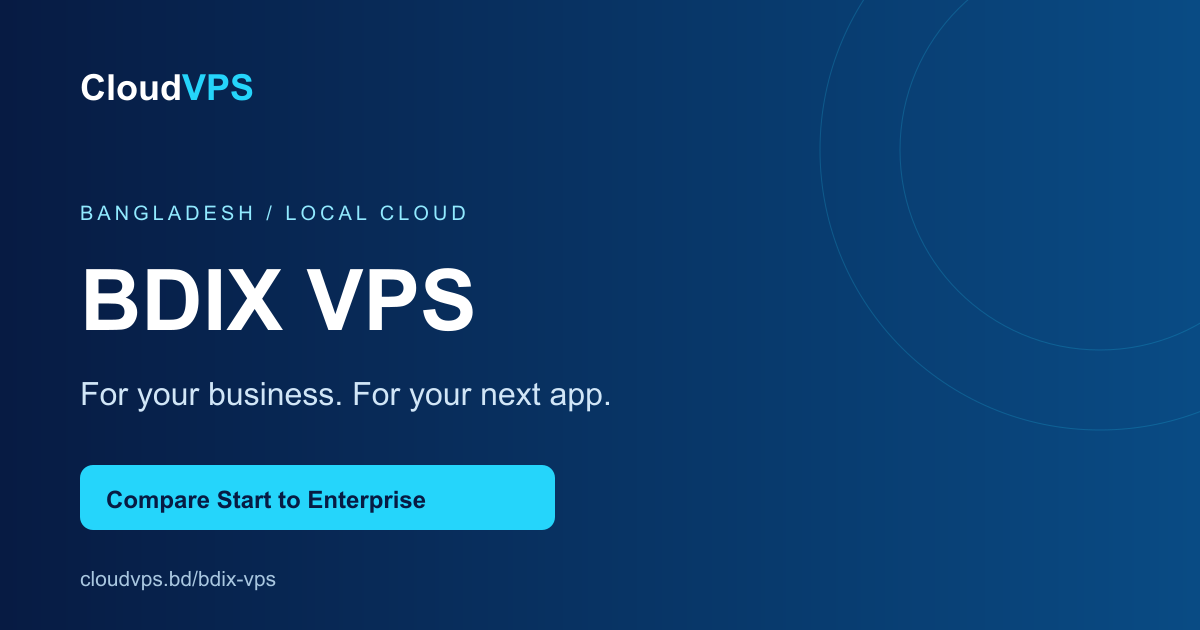
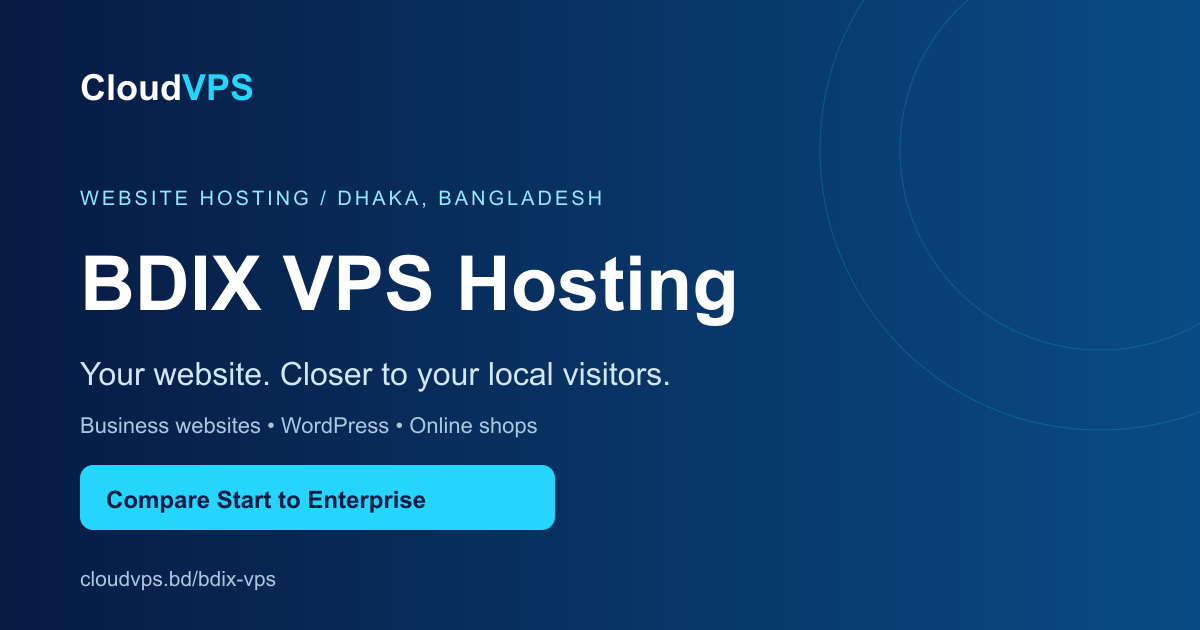
content: focus BDIX landing on local website hosting

Changed region(s): [[0.0617, 0.3921, 0.6167, 0.5429], [0.0617, 0.573, 0.555, 0.6937], [0.0617, 0.3016, 0.4933, 0.3619]]

diff --git a/components/bdix-page.tsx b/components/bdix-page.tsx
@@ -11,11 +11,11 @@ const subscribe = () => () => {};
 const getSearch = () => window.location.search;
 const getServerSearch = () => "";
 const useCases: Record<number, { label: string; text: string; icon: typeof Terminal }> = {
-  1: { label: "Start small. Build your idea.", text: "ছোট website, lightweight app ও development environment-এর জন্য শুরু করুন।", icon: Terminal },
-  2: { label: "More room to grow.", text: "কয়েকটি ছোট website, staging environment বা ছোট business app-এর জন্য।", icon: Layers },
-  3: { label: "Your next production app.", text: "Growing e-commerce, API ও production app-এর জন্য balanced resources।", icon: Zap },
-  4: { label: "Built around your business.", text: "ERP/CRM, একাধিক app ও বেশি resources প্রয়োজন এমন business workload-এর জন্য।", icon: Database },
-  5: { label: "Think bigger. Deploy more.", text: "বড় deployment, একাধিক service ও resource-heavy workload-এর জন্য।", icon: Server },
+  1: { label: "ছোট website দিয়ে শুরু", text: "Business পরিচিতি, portfolio বা ছোট WordPress website host করার জন্য প্রথমে এই resources তুলনা করুন।", icon: Globe2 },
+  2: { label: "WordPress-এর জন্য বাড়তি RAM", text: "Content-rich WordPress site বা কয়েকটি ছোট website-এর জন্য বেশি RAM ও storage বেছে নিন।", icon: Layers },
+  3: { label: "আপনার online shop-এর জন্য", text: "WooCommerce বা e-commerce website-এর catalog, database ও checkout-এর প্রয়োজন অনুযায়ী plan তুলনা করুন।", icon: Zap },
+  4: { label: "একাধিক business website", text: "Agency বা একাধিক business website একই server-এ host করতে বেশি CPU, RAM ও storage বিবেচনা করুন।", icon: Database },
+  5: { label: "বড় website, বড় resources", text: "বড় content portal, একাধিক store বা resource-intensive website-এর জন্য এই package দিয়ে sizing শুরু করুন।", icon: Server },
 };
 
 export function campaignUrl(href: string, search: string) {
@@ -29,10 +29,12 @@ export function campaignUrl(href: string, search: string) {
 }
 
 const faqs = [
-  ["আমার জন্য কোন plan ভালো?", "ছোট project-এর জন্য Start/Plus দিয়ে তুলনা শুরু করুন। Production app-এর জন্য Pro, আর বেশি memory/CPU প্রয়োজন হলে Business বা Enterprise দেখুন। App stack, database ও workload অনুযায়ী প্রয়োজন বদলায়—সন্দেহ হলে support-এর সঙ্গে কথা বলুন।"],
-  ["BDIX VPS মানে কি সব ISP-তে একই speed?", "না। Bangladesh location local audience-এর জন্য একটি বিকল্প। Actual connectivity ও latency আপনার ISP, peering/routing এবং workload-এর ওপর নির্ভর করে। নির্দিষ্ট latency বা speed guarantee করা হচ্ছে না।"],
+  ["বাংলাদেশি visitor-এর জন্য BDIX VPS কেন বেছে নেব?", "BDIX স্থানীয় network-গুলোর মধ্যে internet traffic exchange করতে সাহায্য করে। আপনার visitor-এর ISP থেকে server পর্যন্ত local routing থাকলে দূরের international route এড়িয়ে network latency কমতে পারে। বাংলাদেশকেন্দ্রিক website-এর জন্য তাই local hosting বিবেচনা করা যায়।"],
+  ["আমার website-এর জন্য কোন plan ভালো?", "ছোট business website-এর জন্য Start, বেশি RAM দরকার হলে Plus, আর online shop-এর জন্য Pro দিয়ে তুলনা শুরু করুন। একাধিক বা বড় website-এর জন্য Business/Enterprise দেখুন। Plugins, database, caching ও একই সময়ে কত request আসে—এসব অনুযায়ী প্রয়োজন বদলায়।"],
+  ["WordPress বা WooCommerce website host করতে পারব?", "উপযুক্ত OS, web server, PHP ও database configure করে WordPress বা WooCommerce host করা যায়। VPS নেওয়া মানেই pre-installed WordPress বা managed hosting নয়। Setup বা migration-এ সাহায্য প্রয়োজন হলে আগে support-এর সঙ্গে scope ও খরচ নিশ্চিত করুন।"],
+  ["সব ISP ও mobile network-এ কি একই latency পাব?", "না। ISP-এর peering, mobile network, routing ও congestion অনুযায়ী latency বদলায়। Website-এর code, images, plugins, database ও caching-ও load time-এ প্রভাব ফেলে। Local hosting network delay কমাতে সাহায্য করতে পারে; নির্দিষ্ট ping বা page-load time নিশ্চিত করে না।"],
   ["Operating system কীভাবে বেছে নেব?", "এই Plan নিন button থেকে client portal-এর configuration page খুলবে। সেখানে ওই package-এর available operating system ও options দেখে নির্বাচন করুন।"],
-  ["Server management ও support কি included?", "Included management-এর scope order করার আগে support-এর সঙ্গে নিশ্চিত করুন। এই page managed service-এর প্রতিশ্রুতি দিচ্ছে না। Account ও service support client portal-এ পাওয়া যাবে।"],
+  ["cPanel, website migration বা server management কি included?", "Control panel license, migration ও server management-এর availability এবং আলাদা খরচ order করার আগে support-এর সঙ্গে নিশ্চিত করুন। Website setup ও maintenance-এর দায়িত্বও আগে ঠিক করে নিন। Account ও service support client portal থেকে নিন।"],
   ["Bandwidth ও IPv4 কত পাব?", "প্রতিটি package card-এ catalog-এর bandwidth allocation ও included IPv4 দেখানো আছে। এগুলো connection speed নয়। Usage policy ও extra IPv4-এর খরচ portal/support থেকে নিশ্চিত করুন।"],
   ["দাম ও billing কীভাবে কাজ করে?", "এখানে মাসিক customer price দেখানো হয়। Billing cycle, tax, add-ons ও final payable total client portal-এর checkout-এ review করুন। অন্য billing cycle-এর জন্য portal-এর price-ই অনুসরণ করুন।"],
   ["Backup বা DDoS protection included আছে?", "এই page এগুলো included হিসেবে দেখাচ্ছে না। আপনার প্রয়োজন থাকলে purchase-এর আগে support-এর সঙ্গে availability ও terms নিশ্চিত করুন।"],
@@ -44,28 +46,33 @@ export function BdixPage({ plans }: { plans: BdixPlan[] }) {
   const starting = available.length ? Math.min(...available.map(p => p.price)) : null;
   return <Shell current="/bdix-vps"><article className="bdix-page" lang="bn">
     <section className="bdix-hero"><div className="container bdix-hero-grid"><div>
-      <span className="bdix-eyebrow"><span className="pulse"/> BANGLADESH / BDIX CLOUD VPS</span>
-      <h1>আপনার <span lang="en">Business ও Apps</span>-এর জন্য <em>Bangladesh BDIX VPS</em></h1>
-      <p>Website, business software কিংবা development project—আপনার workload অনুযায়ী resources বেছে নিন।</p>
+      <span className="bdix-eyebrow"><span className="pulse"/> WEBSITE HOSTING / DHAKA, BANGLADESH</span>
+      <h1>বাংলাদেশি visitor-এর জন্য <em lang="en">BDIX VPS Hosting</em></h1>
+      <p>আপনার business website, WordPress কিংবা online shop host করুন বাংলাদেশে। Local routing-এর সুবিধায় network latency কমানোর সুযোগ, সঙ্গে website-এর প্রয়োজন অনুযায়ী CPU, RAM ও NVMe storage।</p>
+      <ul className="bdix-hero-points"><li><Check/> Dhaka server location</li><li><Check/> Website অনুযায়ী VPS resources</li><li><Check/> মাসিক package, পরিষ্কার দাম</li></ul>
       <div className="bdix-hero-actions"><a className="button button-cyan" href="#packages">Packages দেখুন <ArrowRight size={18}/></a><a className="bdix-support-link" href="/contact">সঠিক plan বেছে নিতে সাহায্য নিন <ArrowUpRight size={16}/></a></div>
       <div className="bdix-starting">{starting !== null ? <>শুরু <strong>৳{money(starting)}</strong> / month <small>Final total checkout-এ review করুন</small></> : <>Latest packages ও দাম জানতে <a href={portal + "/vps"}>client portal দেখুন →</a></>}</div>
-    </div><div className="bdix-server-art" aria-label="Bangladesh cloud server resources"><div className="bdix-art-top"><span><MapPin size={17}/> Dhaka, Bangladesh</span><span className="bdix-art-chip">KVM CLOUD</span></div><div className="bdix-rack">{[1,2,3].map(n => <div key={n}><Server size={30}/><span/><i/><i/></div>)}</div><div className="bdix-art-bottom"><span><Cpu/> vCPU & RAM</span><span><Database/> NVMe storage</span><span><Globe2/> BDIX VPS</span></div><p>Local infrastructure.<br/><strong>Your next big idea.</strong></p></div></div></section>
+    </div><div className="bdix-server-art" aria-label="Website hosting on a server in Dhaka, Bangladesh"><div className="bdix-art-top"><span><MapPin size={17}/> Dhaka, Bangladesh</span><span className="bdix-art-chip">WEBSITE HOSTING</span></div><div className="bdix-rack">{[1,2,3].map(n => <div key={n}><Server size={30}/><span/><i/><i/></div>)}</div><div className="bdix-art-bottom"><span><Cpu/> vCPU & RAM</span><span><Database/> NVMe storage</span><span><Globe2/> BDIX VPS</span></div><p>Your website. Hosted locally.<br/><strong>Closer to your visitors.</strong></p></div></div></section>
     <div className="bdix-proof container"><span><MapPin/> Bangladesh location</span><span><Database/> NVMe packages</span><span><Settings2/> Configure in the portal</span></div>
-    <section className="bdix-section" id="packages"><div className="container"><div className="bdix-heading"><span className="section-kicker">01 / FIND YOUR FIT</span><h2>একটি idea থেকে বড় deployment.<br/><em>আপনার জন্য কোন plan?</em></h2><p>সব BDIX package এক জায়গায়। Resources ও monthly price তুলনা করে আপনার পরের ধাপ বেছে নিন।</p></div>
+    <section className="bdix-section" id="packages"><div className="container"><div className="bdix-heading"><span className="section-kicker">01 / WEBSITE HOSTING PLANS</span><h2>ছোট business site থেকে online shop.<br/><em>আপনার website-এর জন্য সঠিক VPS।</em></h2><p>সব BDIX package এক জায়গায়। Website-এর ধরন, database ও traffic অনুযায়ী resources তুলনা করুন।</p></div>
       {plans.length ? <div className="bdix-plans">{plans.map(p => <section id={`plan-${p.id}`} key={p.id} className={`bdix-plan ${p.featured ? "featured" : ""}`}>
         <div className="bdix-plan-heading"><Server size={24}/>{p.featured && <span className="bdix-badge">Featured plan</span>}</div><h3 lang="en">{p.name}</h3><p className="bdix-plan-tagline">{useCases[p.id]?.label ?? "Resources for your next project."}</p><div className="bdix-price">৳{money(p.price)}<small>/ month</small></div>
         <ul><li><Check/>{p.cpu} vCPU</li><li><Check/>{p.ram} GB RAM</li><li><Check/>{p.disk} GB NVMe storage</li><li><Check/>{money(p.bandwidth)} GB bandwidth</li><li><Check/>{p.ipv4} IPv4 address{p.ipv4 === 1 ? "" : "es"}</li></ul>
-        <div className="bdix-plan-use"><span>ভালো fit হতে পারে</span><p>{useCases[p.id]?.text ?? "আপনার application-এর resource requirements-এর সঙ্গে মিলিয়ে বেছে নিন।"}</p></div>
+        <div className="bdix-plan-use"><span>এই plan কার জন্য?</span><p>{useCases[p.id]?.text ?? "আপনার website-এর resource requirements-এর সঙ্গে মিলিয়ে বেছে নিন।"}</p></div>
         {p.available ? <a className={`button ${p.featured ? "button-cyan" : "button-dark"}`} href={campaignUrl(p.url, search)}>এই Plan নিন <ArrowUpRight size={18}/></a> : <button className="button bdix-unavailable" disabled>বর্তমানে unavailable</button>}
         {p.available && <small className="bdix-selection-note">Portal-এ {p.name} selected আছে কিনা নিশ্চিত করুন।</small>}
       </section>)}</div> : <div className="bdix-fallback" role="status"><h3>এই মুহূর্তে package prices পাওয়া যাচ্ছে না</h3><p>Latest plans দেখতে client portal খুলুন অথবা team-এর সাহায্য নিন।</p><a className="button button-dark" href={campaignUrl(portal + "/vps", search)}>Portal-এ packages দেখুন <ArrowUpRight size={18}/></a></div>}
       <p className="bdix-price-note">Monthly customer prices • Final total, tax ও add-ons checkout-এ নিশ্চিত করুন। Use cases selection guidance; capacity guarantee নয়।</p>
     </div></section>
-    <section className="bdix-section bdix-soft"><div className="container"><div className="bdix-heading"><span className="section-kicker">02 / BUILT FOR YOUR WORK</span><h2>আপনি কী build করছেন?</h2><p>Project-এর stage অনুযায়ী plan তুলনা শুরু করুন। প্রয়োজন বুঝে team-এর সঙ্গে কথা বলুন।</p></div><div className="bdix-use-grid">{Object.entries(useCases).map(([id, item]) => { const Icon = item.icon; return <a href={plans.some(p => p.id === Number(id)) ? `#plan-${id}` : "#packages"} key={id}><Icon/><h3>{item.label}</h3><p>{item.text}</p><span>Plan তুলনা করুন <ArrowRight size={16}/></span></a>; })}</div></div></section>
-    <section className="bdix-section bdix-why"><div className="container"><div className="bdix-heading"><span className="section-kicker">03 / LOCAL FOUNDATION. MORE POSSIBILITIES.</span><h2>বাংলাদেশের audience.<br/><em>আপনার নিজের server resources.</em></h2><p>Bangladesh location-এ available BDIX VPS packages থেকে আপনার app-এর প্রয়োজন অনুযায়ী নির্বাচন করুন।</p></div><div className="bdix-benefits"><div><MapPin/><h3>Bangladesh location</h3><p>Dhaka location-এর packages তুলনা করুন। Local audience-এর connectivity আপনার ISP ও network routing-এর ওপর নির্ভর করে।</p></div><div><Cpu/><h3>Resources বুঝে সিদ্ধান্ত</h3><p>vCPU, RAM, NVMe, bandwidth ও IPv4 allocation দেখে বেছে নিন। Application requirements অনুযায়ী server sizing করুন।</p></div><div><Settings2/><h3>Your configuration</h3><p>Client portal-এ available OS ও add-ons বেছে নিয়ে final order review করুন। Management প্রয়োজন হলে আগে scope নিশ্চিত করুন।</p></div></div></div></section>
-    <section className="bdix-section bdix-soft"><div className="container"><div className="bdix-heading"><span className="section-kicker">04 / YOUR NEXT STEP</span><h2>Plan থেকে checkout—সহজ তিন ধাপ</h2></div><div className="steps-grid"><div><b>01</b><h3>Plan বেছে নিন</h3><p>Workload অনুযায়ী resources ও monthly price তুলনা করুন।</p></div><div><b>02</b><h3>Server configure করুন</h3><p>Client portal-এ নির্বাচিত plan, location, available OS ও options review করুন।</p></div><div><b>03</b><h3>Final total নিশ্চিত করুন</h3><p>Billing cycle ও add-ons দেখে account দিয়ে checkout complete করুন।</p></div></div></div></section>
-    <section className="bdix-section"><div className="container bdix-faq-layout"><div className="bdix-heading"><span className="section-kicker">05 / BEFORE YOU ORDER</span><h2>কিছু প্রশ্ন,<br/>পরিষ্কার উত্তর।</h2><p>আপনার workload নিয়ে আলোচনা করতে চান?</p><a className="button button-dark" href="/contact"><Headphones size={18}/> Team-এর সঙ্গে কথা বলুন</a></div><div className="faq-list">{faqs.map(([q,a]) => <details key={q}><summary>{q}</summary><p>{a}</p></details>)}</div></div></section>
-    <section className="bdix-closing"><div className="container"><span className="bdix-eyebrow">BUILD YOUR NEXT CHAPTER</span><h2>আপনার next project-এর<br/>foundation বেছে নিন।</h2><p>Start small অথবা বড় resources—সব BDIX packages এখানে।</p><div className="bdix-hero-actions"><a className="button button-cyan" href="#packages">Packages দেখুন <ArrowRight size={18}/></a><a className="bdix-support-link" href="/contact">Support-এর সাহায্য নিন <ArrowUpRight size={18}/></a></div></div></section>
-    <div className="bdix-mobile-cta"><span>আপনার workload, আপনার plan</span><a className="button button-cyan" href="#packages">Plans দেখুন <ArrowRight size={16}/></a></div>
+    <section className="bdix-section bdix-soft"><div className="container"><div className="bdix-heading"><span className="section-kicker">02 / FIND YOUR WEBSITE TYPE</span><h2>আপনার website কোন ধরনের?</h2><p>Business পরিচিতি, WordPress, online shop অথবা একাধিক client site—নিচের use case থেকে plan তুলনা শুরু করুন।</p></div><div className="bdix-use-grid">{Object.entries(useCases).map(([id, item]) => { const Icon = item.icon; return <a href={plans.some(p => p.id === Number(id)) ? `#plan-${id}` : "#packages"} key={id}><Icon/><h3>{item.label}</h3><p>{item.text}</p><span>Plan তুলনা করুন <ArrowRight size={16}/></span></a>; })}</div></div></section>
+    <section className="bdix-section bdix-why"><div className="container"><div className="bdix-heading"><span className="section-kicker">03 / LOCAL VISITORS. LOCAL HOSTING.</span><h2>Visitor বাংলাদেশে?<br/><em>Website-এর server-ও থাকুক কাছে।</em></h2><p>BDIX হলো Bangladesh Internet Exchange। এটি connected network-গুলোর মধ্যে local traffic স্থানীয়ভাবে exchange করার সুযোগ দেয়। Route ছোট হলে visitor থেকে server-এ request পৌঁছানোর network delay কমতে পারে।</p></div>
+      <div className="bdix-routing" aria-label="Local routing explained"><div className="bdix-route-label"><Globe2/><strong>Local route কীভাবে সাহায্য করে?</strong><span>Illustration • live network test নয়</span></div><div className="bdix-route-flow"><span>বাংলাদেশি visitor<small>আপনার customer</small></span><ArrowRight aria-hidden="true"/><span>ISP + local peering<small>Available network route</small></span><ArrowRight aria-hidden="true"/><span>Dhaka VPS<small>আপনার website</small></span></div><p>Local peering থাকলে দূরের international route-এর প্রয়োজন কমতে পারে। ফলাফল ISP, routing ও server configuration অনুযায়ী বদলায়।</p></div>
+      <div className="bdix-benefits"><div><MapPin/><h3>কম network latency-এর সুযোগ</h3><p>বাংলাদেশি audience-এর জন্য স্থানীয় server location বিবেচনা করুন। Local route পাওয়া গেলে server response-এর network অংশ দ্রুত হতে পারে।</p></div><div><Cpu/><h3>Website অনুযায়ী resources</h3><p>WordPress plugins, product catalog ও database-এর জন্য RAM, CPU ও storage মিলিয়ে নিন। বড় website-এর জন্য বড় package তুলনা করুন।</p></div><div><Settings2/><h3>Hosting setup আপনার মতো</h3><p>Available OS ও options দিয়ে server configure করুন। Website migration, control panel বা management প্রয়োজন হলে team-এর সঙ্গে আগে আলোচনা করুন।</p></div></div>
+      <p className="bdix-network-note">Local hosting-এর পাশাপাশি images, caching, plugins ও database optimize করাও জরুরি। কম latency মানেই নির্দিষ্ট page-load time নয়। <a href="https://bdix.net/" target="_blank" rel="noopener noreferrer">BDIX সম্পর্কে জানুন <ArrowUpRight size={13}/></a></p>
+    </div></section>
+    <section className="bdix-section bdix-soft"><div className="container"><div className="bdix-heading"><span className="section-kicker">04 / START HOSTING</span><h2>Website hosting শুরু করার তিন ধাপ</h2></div><div className="steps-grid"><div><b>01</b><h3>Website অনুযায়ী plan</h3><p>আপনার website-এর ধরন, RAM ও storage-এর প্রয়োজন মিলিয়ে monthly package বেছে নিন।</p></div><div><b>02</b><h3>Server configure করুন</h3><p>Client portal-এ plan, location ও available OS review করুন। Setup-এ সাহায্য লাগলে team-কে জানান।</p></div><div><b>03</b><h3>Review করে checkout</h3><p>Final price ও options নিশ্চিত করুন। VPS ready হলে website setup বা migration-এর পর domain connect করুন।</p></div></div></div></section>
+    <section className="bdix-section"><div className="container bdix-faq-layout"><div className="bdix-heading"><span className="section-kicker">05 / WEBSITE HOSTING FAQ</span><h2>Website hosting নিয়ে<br/>আপনার প্রশ্নের উত্তর।</h2><p>Website-এর জন্য কত resources দরকার বুঝতে পারছেন না? আপনার site-এর ধরন team-কে জানান।</p><a className="button button-dark" href="/contact"><Headphones size={18}/> Plan বেছে নিতে সাহায্য নিন</a></div><div className="faq-list">{faqs.map(([q,a]) => <details key={q}><summary>{q}</summary><p>{a}</p></details>)}</div></div></section>
+    <section className="bdix-closing"><div className="container"><span className="bdix-eyebrow">YOUR WEBSITE. YOUR LOCAL AUDIENCE.</span><h2>বাংলাদেশি customer-এর জন্য<br/>local hosting বেছে নিন।</h2><p>Business website থেকে online shop—আপনার site-এর প্রয়োজন মিলিয়ে BDIX VPS plan তুলনা করুন।</p><div className="bdix-hero-actions"><a className="button button-cyan" href="#packages">Packages দেখুন <ArrowRight size={18}/></a><a className="bdix-support-link" href="/contact">Website নিয়ে কথা বলুন <ArrowUpRight size={18}/></a></div></div></section>
+    <div className="bdix-mobile-cta"><span>আপনার website-এর জন্য BDIX VPS</span><a className="button button-cyan" href="#packages">Plans দেখুন <ArrowRight size={16}/></a></div>
   </article></Shell>;
 }

diff --git a/app/globals.css b/app/globals.css
@@ -31,6 +31,8 @@
 
 /* Keep the primary account action available on narrow screens. */
 .bdix-page:lang(bn){font-family:Arial,var(--font-hind-siliguri),sans-serif}
+.bdix-page .bdix-hero h1{font-size:clamp(34px,4.1vw,56px);line-height:1.3}.bdix-hero-points{list-style:none;padding:0;margin:24px 0;display:grid;gap:9px;color:#d4e7f7;font-size:14px}.bdix-hero-points li{display:flex;gap:10px;align-items:center}.bdix-hero-points svg{width:17px;height:17px;flex-shrink:0;color:#25d5fb}.bdix-routing{background:#ffffff08;border:1px solid #55c8f547;border-radius:18px;padding:28px;margin:35px 0}.bdix-route-label{display:flex;align-items:center;gap:10px;color:#8beaff}.bdix-route-label>span{font-size:11px;color:#adc7e0;margin-left:auto}.bdix-route-flow{display:flex;align-items:center;gap:20px;margin:25px 0}.bdix-route-flow>span{flex:1;min-width:0;border:1px solid #ffffff25;border-radius:12px;padding:20px;background:#ffffff08;font-size:18px}.bdix-route-flow small{display:block;color:#aac5e0;font-size:12px;margin-top:5px}.bdix-route-flow>svg{flex-shrink:0;color:#25d5fb}.bdix-routing>p,.bdix-network-note{color:#bfd1e7;font-size:14px;line-height:1.85}.bdix-routing>p{margin-bottom:0}.bdix-network-note{margin-top:28px}.bdix-network-note a{display:inline-flex;align-items:center;gap:5px;margin-left:8px;color:#8beaff;text-decoration:underline;text-underline-offset:3px}.bdix-page .bdix-plan-tagline{font-size:15px;line-height:1.7}.bdix-page .bdix-selection-note{font-size:12px}.bdix-page .bdix-plan-use p{font-size:14px}.bdix-page .button{white-space:normal;line-height:1.5}.bdix-page .bdix-hero-grid>div{min-width:0}
+@media(max-width:760px){.bdix-page .bdix-hero h1{font-size:clamp(30px,7.7vw,40px)}.bdix-route-label{flex-wrap:wrap}.bdix-route-label>span{margin-left:0;flex-basis:100%}.bdix-routing{padding:21px}.bdix-route-flow{flex-direction:column;gap:12px}.bdix-route-flow>span{width:100%;padding:16px}.bdix-route-flow>svg{transform:rotate(90deg)}.bdix-page .bdix-mobile-cta>span{max-width:48%;font-size:12px;line-height:1.5}.bdix-page .bdix-mobile-cta .button{flex-shrink:0}.bdix-page .bdix-art-bottom{flex-wrap:wrap}.bdix-page .bdix-server-art strong{font-size:21px}.bdix-page .bdix-eyebrow{font-size:10px;letter-spacing:.08em}.bdix-page .bdix-heading h2{font-size:clamp(27px,7vw,32px)}.bdix-page .bdix-price{font-size:35px}}
 .bdix-selection-note{display:block;font-size:11px;color:#61748d;line-height:1.7;margin-top:12px}.bdix-plan.featured .bdix-selection-note{color:#bfd1e7}
 .vps-navigation{position:relative;color:#071b43;font-size:14px;font-weight:700}.vps-navigation summary{cursor:pointer;list-style:none;display:flex;align-items:center;gap:7px}.vps-navigation summary::-webkit-details-marker{display:none}.vps-navigation summary.active{color:#0877ed}.vps-navigation-menu{position:absolute;top:30px;left:-20px;width:245px;background:#fff;border:1px solid #dce8f4;border-radius:14px;padding:10px;box-shadow:0 15px 40px #061a3f20;z-index:50}.vps-navigation-menu a{display:block;padding:13px!important;border-radius:8px}.vps-navigation-menu a:hover{background:#f2f7fc}.vps-navigation-menu small{display:block;font-size:11px;font-weight:400;color:#61748d;margin-top:5px}.bdix-home-link{display:flex;gap:12px;align-items:center;background:#ffffff10;border:1px solid #64caff45;border-radius:12px;padding:18px 22px;color:#a7eeff;margin-bottom:30px;font-weight:700}
 .bdix-page{font-family:Arial,"Nirmala UI","Vrinda",sans-serif;line-height:1.7}.bdix-page h1,.bdix-page h2,.bdix-page h3{letter-spacing:-.025em}.bdix-page [id]{scroll-margin-top:110px}.bdix-hero{background:radial-gradient(ellipse at 90% 20%,#0d5790 0%,transparent 55%),#071b43;color:#fff;overflow:hidden}.bdix-hero-grid{display:grid;grid-template-columns:1.2fr .8fr;gap:65px;align-items:center;padding-top:80px;padding-bottom:90px}.bdix-eyebrow{display:flex;align-items:center;gap:10px;color:#8beaff;font-size:11px;font-weight:800;letter-spacing:.12em}.bdix-hero h1{font-size:clamp(36px,4.4vw,61px);line-height:1.35;margin:22px 0}.bdix-hero h1 em{display:block;font-style:normal;color:#25d5fb}.bdix-hero p{font-size:18px;color:#c9daec;max-width:650px}.bdix-hero-actions{display:flex;flex-wrap:wrap;align-items:center;gap:22px;margin-top:28px}.bdix-support-link{color:#d9f0ff;display:flex;align-items:center;gap:7px;font-size:14px}.bdix-starting{margin-top:30px;color:#c7d9ed;font-size:15px}.bdix-starting strong{color:#fff;font-size:29px;margin:0 7px}.bdix-starting small{display:block;font-size:12px;color:#a9bed6}.bdix-server-art{background:linear-gradient(150deg,#153b66,#071a38);border:1px solid #59c9ff45;border-radius:24px;padding:28px;box-shadow:0 25px 80px #00102960;position:relative}.bdix-art-top{display:flex;justify-content:space-between;align-items:center;gap:8px;font-size:12px;color:#abdcf4}.bdix-art-top>span{display:flex;gap:6px;align-items:center}.bdix-art-chip{font-size:9px;letter-spacing:.08em;border:1px solid #27d9f75c;border-radius:5px;padding:5px}.bdix-rack{display:grid;gap:12px;margin:35px 0}.bdix-rack>div{display:flex;align-items:center;gap:12px;background:linear-gradient(110deg,#265784,#163555);border:1px solid #6385a55c;padding:20px;border-radius:12px;color:#65e5ff;box-shadow:0 8px 20px #00173044}.bdix-rack span{flex:1;height:8px;background:repeating-linear-gradient(90deg,#a9cbe547 0 3px,transparent 3px 7px)}.bdix-rack i{width:6px;height:6px;border-radius:50%;background:#25d5fb}.bdix-art-bottom{display:flex;gap:14px;justify-content:space-between;font-size:10px;color:#bfe4f7}.bdix-art-bottom span{display:grid;gap:7px}.bdix-art-bottom svg{width:19px;height:19px;color:#25d5fb}.bdix-server-art p{margin-bottom:0;font-size:17px;color:#a9c7e2}.bdix-server-art strong{font-size:23px;color:#fff}.bdix-proof{display:flex;align-items:center;justify-content:space-between;gap:20px;padding-top:23px;padding-bottom:23px;border-bottom:1px solid #dce8f4;color:#345979;font-size:14px;font-weight:700}.bdix-proof span{display:flex;gap:10px;align-items:center}.bdix-proof svg{color:#0877ed;width:20px}.bdix-section{padding:85px 0}.bdix-heading{max-width:800px;margin-bottom:35px}.bdix-heading h2{font-size:clamp(30px,3.5vw,45px);line-height:1.45;margin:14px 0;color:#071b43}.bdix-heading h2 em{font-style:normal;color:#0877ed}.bdix-heading p{color:#61748d;font-size:16px;line-height:1.85}.bdix-plans{display:grid;grid-template-columns:repeat(3,minmax(0,1fr));gap:22px;align-items:stretch}.bdix-plan{display:flex;flex-direction:column;background:#fff;border:1px solid #dce8f4;border-radius:20px;padding:29px;box-shadow:0 10px 30px #061a3f06}.bdix-plan.featured{background:linear-gradient(150deg,#092b58,#071b43);color:#fff;border-color:#0877ed;box-shadow:0 12px 40px #0877ed20}.bdix-plan-heading{display:flex;align-items:center;justify-content:space-between;gap:10px;color:#0877ed}.bdix-plan.featured .bdix-plan-heading{color:#25d5fb}.bdix-badge{font-size:10px;font-weight:800;letter-spacing:.03em;background:#25d5fb;color:#061a3f;border-radius:30px;padding:5px 10px}.bdix-plan h3{font-size:25px;margin:19px 0 0}.bdix-plan-tagline{font-size:13px;color:#61748d;margin:4px 0 16px}.bdix-plan.featured .bdix-plan-tagline{color:#b8d0e8}.bdix-price{font-size:39px;font-weight:800;letter-spacing:-.04em;line-height:1.5}.bdix-price small{font-size:13px;font-weight:400;letter-spacing:0;margin-left:7px;color:#6b8098}.bdix-plan.featured .bdix-price small{color:#b8d0e8}.bdix-plan ul{list-style:none;display:grid;gap:10px;border-top:1px solid #dce8f4;margin:22px 0;padding:22px 0 0;font-size:14px}.bdix-plan.featured ul{border-color:#ffffff25}.bdix-plan li{display:flex;align-items:center;gap:10px}.bdix-plan li svg{width:16px;height:16px;color:#0877ed}.bdix-plan.featured li svg{color:#25d5fb}.bdix-plan-use{background:#f6f8fc;border-radius:11px;padding:15px;margin-bottom:24px}.bdix-plan-use>span{font-size:11px;color:#0877ed;font-weight:800}.bdix-plan-use p{font-size:13px;line-height:1.85;margin:5px 0;color:#536b85}.bdix-plan.featured .bdix-plan-use{background:#ffffff0c}.bdix-plan.featured .bdix-plan-use>span{color:#7fe8ff}.bdix-plan.featured .bdix-plan-use p{color:#cfdfef}.bdix-plan .button{margin-top:auto;justify-content:center;width:100%;min-height:50px}.bdix-unavailable{background:#e4eaf0;color:#61748d;cursor:not-allowed}.bdix-price-note{color:#61748d;font-size:12px;line-height:1.8;margin-top:25px}.bdix-fallback{border:1px solid #dce8f4;border-radius:16px;padding:30px;background:#f6f8fc}.bdix-fallback p{color:#61748d}.bdix-soft{background:#f6f8fc}.bdix-use-grid{display:grid;grid-template-columns:repeat(3,minmax(0,1fr));gap:20px}.bdix-use-grid a{padding:27px;border-radius:16px;background:#fff;border:1px solid #dce8f4;display:flex;flex-direction:column;transition:transform .2s}.bdix-use-grid a:hover{transform:translateY(-3px)}.bdix-use-grid a>svg{color:#0877ed}.bdix-use-grid h3{font-size:20px;margin:18px 0 8px}.bdix-use-grid p{font-size:14px;line-height:1.85;color:#61748d;margin:0 0 20px}.bdix-use-grid span{margin-top:auto;color:#0877ed;font-size:13px;font-weight:700;display:flex;align-items:center;gap:8px}.bdix-why{background:#071b43;color:#fff}.bdix-why .bdix-heading h2{color:#fff}.bdix-why .bdix-heading h2 em,.bdix-why .section-kicker{color:#25d5fb}.bdix-why .bdix-heading p{color:#bfd1e7}.bdix-benefits{display:grid;grid-template-columns:repeat(3,minmax(0,1fr));gap:30px}.bdix-benefits>div{border-top:1px solid #ffffff30;padding-top:25px}.bdix-benefits svg{color:#25d5fb}.bdix-benefits h3{font-size:22px;margin:18px 0 10px}.bdix-benefits p{color:#bfd1e7;font-size:14px;line-height:1.85}.bdix-faq-layout{display:grid;grid-template-columns:.8fr 1.2fr;gap:70px}.bdix-faq-layout .faq-list summary{font-size:16px;line-height:1.8}.bdix-faq-layout .faq-list p{font-size:14px;line-height:1.9}.bdix-closing{background:linear-gradient(110deg,#073b82,#0865b5);color:#fff;padding:75px 0}.bdix-closing h2{font-size:clamp(32px,4vw,50px);line-height:1.45;margin:18px 0}.bdix-closing p{color:#d0e6f8}.bdix-mobile-cta{display:none}.bdix-page a:focus-visible,.vps-navigation summary:focus-visible{outline:3px solid #25d5fb;outline-offset:5px}

diff --git a/app/bdix-vps/page.tsx b/app/bdix-vps/page.tsx
@@ -12,12 +12,12 @@ const hindSiliguri = Hind_Siliguri({
 
 export const revalidate = 300;
 export const metadata: Metadata = {
-  title: "BDIX VPS Bangladesh | Business ও Apps-এর জন্য CloudVPS",
-  description: "Bangladesh BDIX VPS packages তুলনা করুন। vCPU, RAM, NVMe, bandwidth ও মাসিক দাম দেখে আপনার website, business software বা app-এর জন্য plan বেছে নিন।",
+  title: "BDIX VPS Hosting Bangladesh | Website Hosting — CloudVPS",
+  description: "বাংলাদেশি visitor-এর জন্য Dhaka location-এ website host করুন। Business website, WordPress ও online shop-এর BDIX VPS monthly plans, RAM, CPU ও NVMe তুলনা করুন।",
   alternates: { canonical: "https://cloudvps.bd/bdix-vps" },
   openGraph: {
-    title: "আপনার Business ও Apps-এর জন্য Bangladesh BDIX VPS",
-    description: "Start থেকে Enterprise—আপনার workload অনুযায়ী BDIX VPS resources বেছে নিন।",
+    title: "বাংলাদেশি visitor-এর জন্য BDIX VPS Hosting",
+    description: "আপনার business website, WordPress ও online shop-এর জন্য Bangladesh location-এ VPS plans তুলনা করুন।",
     url: "https://cloudvps.bd/bdix-vps", siteName: "CloudVPS", type: "website", locale: "bn_BD",
     images: [{ url: "/bdix-og.png", width: 1200, height: 630, alt: "CloudVPS Bangladesh BDIX VPS" }],
   },

diff --git a/BDIX_MARKETING.md b/BDIX_MARKETING.md
@@ -2,33 +2,33 @@
 
 Destination: https://cloudvps.bd/bdix-vps
 
-Audience: Bangladesh business owners and developers. Conversion journey: ad → package comparison → exact plan configuration → checkout in app.cloudvps.bd.
+Audience: owners of business websites, WordPress sites and online shops serving Bangladeshi customers; agencies hosting client websites. Conversion journey: ad → website-focused package comparison → plan configuration → checkout in app.cloudvps.bd.
 
-## Creative angle 1 — Business apps
+## Creative angle 1 — Your visitors are in Bangladesh
 
-Primary text: আপনার website, e-commerce বা business software-এর জন্য VPS খুঁজছেন? CloudVPS-এর Bangladesh BDIX packages-এ CPU, RAM, NVMe ও monthly price তুলনা করুন। আপনার workload-এর জন্য সঠিক plan বেছে নিন।
+Primary text: আপনার website-এর visitor বাংলাদেশে? Website host করুন বাংলাদেশে। Local routing থাকলে network latency কমতে পারে। CloudVPS BDIX VPS-এ business website, WordPress বা online shop-এর জন্য CPU, RAM, NVMe ও monthly price তুলনা করে plan বেছে নিন।
 
-Headline: আপনার Business-এর জন্য BDIX VPS
-
-CTA: Learn More
-
-Creative: CloudVPS navy/cyan graphic with “Business apps. Local cloud.” and a clean server illustration. Do not put a fixed price in evergreen ads.
-
-## Creative angle 2 — Developers
-
-Primary text: Next app deploy করার প্রস্তুতি? Development থেকে production—CloudVPS BDIX VPS-এর resources ও use cases দেখে plan বেছে নিন। Portal-এ available OS ও options configure করে order review করুন।
-
-Headline: Build your next app on BDIX VPS
+Headline: বাংলাদেশি visitor-এর জন্য BDIX VPS Hosting
 
 CTA: Learn More
 
-Creative: “Your code. Your workload. Your VPS.” with CPU/RAM/NVMe labels matching current packages.
+Creative: CloudVPS navy/cyan graphic with “Your website. Your local audience.” and visitor → local network → Dhaka server illustration. Do not put a fixed price or a latency number in evergreen ads.
+
+## Creative angle 2 — WordPress and online shops
+
+Primary text: Business website, WordPress বা WooCommerce store-এর জন্য VPS খুঁজছেন? Website-এর plugins, database ও storage-এর প্রয়োজন মিলিয়ে CloudVPS-এর পাঁচটি BDIX package তুলনা করুন। Dhaka location-এ আপনার hosting শুরু করতে plan বেছে নিন। Setup বা migration দরকার হলে আগে team-এর সঙ্গে কথা বলুন।
+
+Headline: আপনার website-এর জন্য সঠিক VPS
+
+CTA: Learn More
+
+Creative: website and product-page illustration with “WordPress • Online shop • Business website”. CPU/RAM/NVMe labels must match current packages. These are hosting use cases, not promises of pre-installed software or included management.
 
 ## Campaign links
 
-Business: https://cloudvps.bd/bdix-vps?utm_source=facebook&utm_medium=paid_social&utm_campaign=bdix_business&utm_content=business_apps
+Local audience: https://cloudvps.bd/bdix-vps?utm_source=facebook&utm_medium=paid_social&utm_campaign=bdix_website_hosting&utm_content=local_visitors
 
-Developers: https://cloudvps.bd/bdix-vps?utm_source=facebook&utm_medium=paid_social&utm_campaign=bdix_developers&utm_content=developer_resources
+Website use cases: https://cloudvps.bd/bdix-vps?utm_source=facebook&utm_medium=paid_social&utm_campaign=bdix_website_hosting&utm_content=wordpress_ecommerce
 
 Optional Meta template: utm_source={{site_source_name}}&utm_medium=paid_social&utm_campaign={{campaign.id}}&utm_content={{ad.id}}&utm_term={{adset.id}}
 
@@ -42,6 +42,14 @@ Compare the two creative angles using the same campaign conditions. Review landi
 
 Use cases are sizing guidance. Never advertise guaranteed latency, visitor counts, uptime, included backups, DDoS protection, managed service or discounts without verified terms. Monthly prices refresh from the customer API every five minutes; final tax/add-ons/billing totals are reviewed at checkout.
 
-## Maintenance
+## Research behind the website-hosting positioning (October 8, 2026)
+
+- [BDIX official](https://bdix.net/): the exchange interconnects member networks to exchange and route local Internet traffic locally. This establishes what BDIX does; it does not independently verify CloudVPS peering paths or ping.
+- [Internet Society — Peering and IXPs](https://www.internetsociety.org/our-work/connectivity/peering/): shorter and more direct routes through local peering can reduce latency. The landing page applies this as a conditional benefit, not a CloudVPS performance measurement.
+- Provider landing pages reviewed: [BDIX Web Host](https://bdixwebhost.com/bdix-vps.html), [BDIX VPS](https://bdixvps.com.bd/), [BDIX Web Hosting](https://www.bdixwebhosting.com/). Useful patterns: local audience positioning, visible plan comparisons, website/e-commerce use cases and FAQs. Copy and brand are CloudVPS's own; competitor latency, uptime, network speed and included services are not evidence for CloudVPS claims.
+
+Website load time also depends on application configuration, images, plugins, database and caching. Confirm network performance using a test IP from representative ISPs before publishing numerical claims. The landing page's local-route diagram is educational, not a live ping monitor.
+
+## Catalog maintenance
 
 All active BDIX plans come from the public customer storefront. Existing catalog cache-clear routes also invalidate the `catalog` tag on BDIX data. API failure uses available cached data; no invented fallback prices. New product IDs need editorial use-case text in components/bdix-page.tsx; unknown IDs get generic guidance.

diff --git a/PROJECT_GUIDE.md b/PROJECT_GUIDE.md
@@ -4,6 +4,8 @@
 
 Production hosting is Vercel. `/bdix-vps` is the bilingual BDIX campaign page, linked from shared VPS navigation, homepage, VPS page and footers. Read `BDIX_MARKETING.md` for campaign copy and UTM examples. Its data loader (`lib/bdix.ts`) fetches all active BDIX plans with 300-second revalidation and the `catalog` tag; it does not use the older catalog's hard-coded fallback or two-plan selection. Preserve direct product/location checkout links, stock restrictions, query forwarding and the navy/cyan identity. No Meta Pixel is configured. The earlier migration notes below describe the original setup.
 
+Primary BDIX positioning is website hosting for Bangladeshi visitors: business websites, WordPress, WooCommerce, agency sites and content portals. Local peering can shorten routes and reduce network latency; never turn this into a fixed ping or guaranteed page-load claim. See the research sources in `BDIX_MARKETING.md`. The route illustration is conceptual, not measured network telemetry. Preserve responsive single-column mobile packages, Hind Siliguri and the compact sticky CTA.
+
 This independent copy is for comparing Vercel performance before changing the production domain. Its current planned host is a Vercel preview URL; `https://cloudvps.bd` remains on the existing deployment until the owner moves it. The client portal is `https://app.cloudvps.bd`.
 
 ## Routes and customer flows
